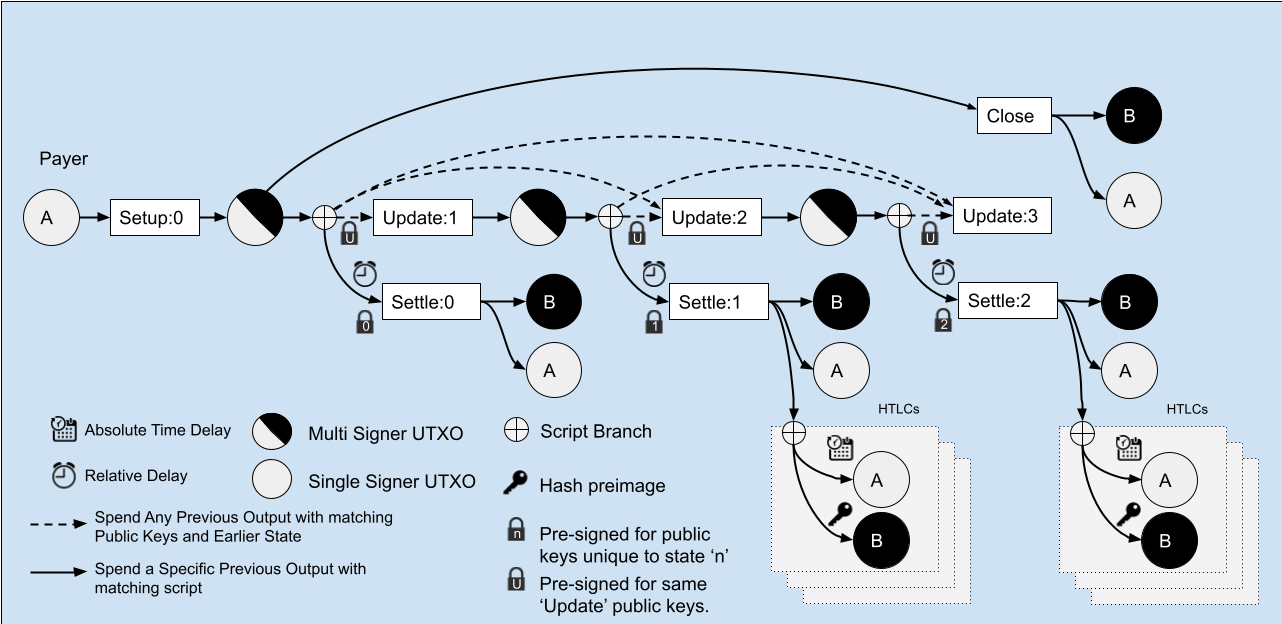
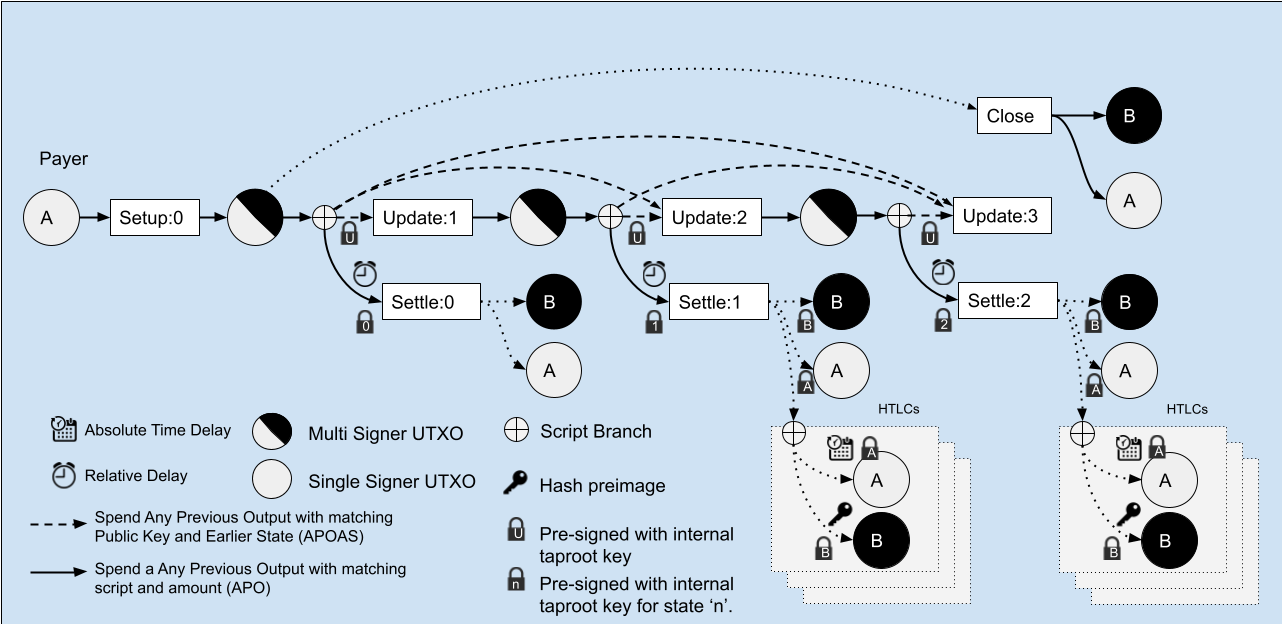
update post and diagram, ready for review

diff --git a/_posts/2021-07-26-first.md b/_posts/2021-07-26-first.md
@@ -3,31 +3,33 @@ title: "eltoo with Anyprevout and Taproot"
 subtitle: "Basic scripts and first transaction tests"
 ---
 
-# Introduction
+# Motivation
 
-With Taproot activation coming soon, now is a good time to look at [BIP-118](https://github.com/bitcoin/bips/blob/master/bip-0118.mediawiki) now known as Anyprevout and previously as Sighash_Noinput. This soft fork enables a powerful new mechanism for replacing presigned transactions in off-chain protocols. The new Lightning Network state update protocol [eltoo](https://blockstream.com/eltoo.pdf) was designed around the existence of Anyprevout.
+With Taproot activation coming soon, now is a good time to look at [BIP-118](https://github.com/bitcoin/bips/blob/master/bip-0118.mediawiki) now known as Sighash Anyprevout and previously as Sighash Noinput. This soft fork enables a powerful new mechanism for replacing presigned transactions in off-chain protocols. The new Lightning Network state update protocol [Eltoo](https://blockstream.com/eltoo.pdf), for example, was designed around the existence of this transaction replacement mechanism.
 
-In this blog post I will describe how to use the Bitcoin Core functional test framework to demonstrate a set of transactions needed for a simple implementation of the eltoo protocol. These tests use a fork of Bitcoin with an initial implementation of BIP-118 and Taproot. I also summarize the basic motivations and relevant features of Anyprevout, eltoo and Taproot to give context for understanding these test transactions.
+In this blog post I will describe how to use the Bitcoin Core [functional test framework](http://diyhpl.us/wiki/transcripts/scalingbitcoin/tel-aviv-2019/edgedevplusplus/bitcoin-core-functional-test-framework/) to test a set of Bitcoin Taproot transactions required by the eltoo protocol. These tests use a fork of Bitcoin with an initial implementation of BIP-118 that builds on Taproot. In the [Addendum](#addendum) I also summarize the relevant motivations and features of Anyprevout, eltoo and Taproot to give context for understanding these eltoo transactions, as well as the detailed Bitcoin scripts and transactions themselves.
 
-The target audience for this write-up is anyone who wants to understand BIP-118, eltoo and Taproot better at the transaction and script level. You should also be able to build Bitcoin Core from source and understand Python scripts. Following the steps below you will be able to see eltoo transactions confirmed on a local regtest network and increaes your knowledge of how both eltoo, BIP-118 and Taproot work. My hope is that this will help more people understand how these technologies work and be capable of reviewing BIP-118. More people testing BIP-118 and implementing eltoo will help find problems and improvements for both. More review and testing is critical before BIP-118 can be adopted by the Bitcoin network and eltoo by the Lightning network.
+The target audience for this write-up is anyone who wants to understand BIP-118, eltoo and Taproot better at the transaction and script level. You should be able to build Bitcoin Core from source and understand Python scripts. Following the steps below you will be able to see eltoo transactions confirmed on a local regtest network. My hope is that this will help people understand how these technologies work and give context for reviewing BIP-118. More people understanding and creating transaction tests for BIP-118 and eltoo will help find problems and improvements for both. More review and testing is critical before BIP-118 can be adopted by the Bitcoin network and eltoo by the Lightning network.
 
 # Tests
 
-I recommend that you confirm your system is setup to build Bitcoin Core and run functional tests. [Jon Atack](https://twitter.com/jonatack) has a good summary [here](https://jonatack.github.io/articles/how-to-compile-bitcoin-core-and-run-the-tests).
+I recommend that you confirm your system is setup to build Bitcoin Core and run functional tests. If you have never done this before, then [Jon Atack](https://twitter.com/jonatack) has a good summary of [how to compile bitcoin core and run the tests](https://jonatack.github.io/articles/how-to-compile-bitcoin-core-and-run-the-tests). Confirm your ability to run the functional tests (Step 8. in Jon's summary) before preceding.
 
-Once you have confirmed your ability to run the functional tests (Step 8. in Jon's summary), you can follow the steps again, but instead of cloning from the Bitcoin Core repository, clone my fork and the eltoo-anyprevout branch:
+You can now follow the steps again, but from my fork of the Bitcoin Core repository and using the ```eltoo-anyprevout``` branch:
 
 ```
-clone --single-branch --branch eltoo-anyprevout https://github.com/remyers/bitcoin.git
+git clone --single-branch --branch eltoo-anyprevout https://github.com/remyers/bitcoin.git bitcoin-eltoo-anyprevout
+cd bitcoin-eltoo-anyprevout
+git checkout eltoo-anyprevout
 ```
 
-Now you can run the new eltoo functional tests:
+Now run the new eltoo functional tests via the python script:
 
 ```
 test/functional/simulate-eltoo.py
 ```
 
-The resulting output should should that all tests passed:
+The resulting output should end by showing that all tests passed:
 
 ```
 Success!
@@ -38,38 +40,83 @@ Success!
 
 ## Tests Explained
 
-### Taproot
+### Taproot tests
 
-The file /test/functional/simulate-eltoo.py runs two tests. The first is [test_bitcoinops_workshop_tapscript](https://github.com/remyers/bitcoin/blob/37a7490dc3b2128c0f7e34a463531f1123682d42/test/functional/simulate_eltoo.py#L1526) which goes through a short Taproot test based on the [Schnorr Taproot Tutorial](https://bitcoinops.org/en/schorr-taproot-workshop/#taproot) created by [Bitcoin Optech](https://bitcoinops.org/). I highly recommend these tutorials, but note that some changes in the Taproot BIP occurred after the workshop - specifically the change to "x only" public keys. You can also check out their recent [Preparing for Taproot](https://bitcoinops.org/en/preparing-for-taproot/) series.
+The file ```/test/functional/simulate-eltoo.py``` runs two tests. The first is [test_bitcoinops_workshop_tapscript](https://github.com/remyers/bitcoin/blob/37a7490dc3b2128c0f7e34a463531f1123682d42/test/functional/simulate_eltoo.py#L1526) which goes through a short Taproot test based on the [Schnorr Taproot Workshop](https://bitcoinops.org/en/schorr-taproot-workshop/#taproot) created by [Bitcoin Optech](https://bitcoinops.org/). I highly recommend these tutorials, but note that some changes in the Taproot BIP occurred after the workshop - specifically the change to "x only" public keys. You can also check out their recent [Preparing for Taproot](https://bitcoinops.org/en/preparing-for-taproot/) series.
 
-### eltoo
+### eltoo tests
 
-You should first read [BIP-118](https://github.com/bitcoin/bips/blob/master/bip-0118.mediawiki) specificaton and the [eltoo](https://blockstream.com/eltoo.pdf) paper to understand these tests. The [Anyprevout][], [eltoo][] and [Taproot][] sections below also summarize details relevant to understanding these eltoo transaction tests.
+You should read both the [BIP-118](https://github.com/bitcoin/bips/blob/master/bip-0118.mediawiki) specificaton and the [eltoo](https://blockstream.com/eltoo.pdf) paper to understand these tests at a high level. The [Anyprevout](#apo), [eltoo](#l2) and [Taproot](#tr) sections below also summarize details relevant to understanding these eltoo transaction tests.
 
 The second test, [test_tapscript_eltoo](https://github.com/remyers/bitcoin/blob/37a7490dc3b2128c0f7e34a463531f1123682d42/test/functional/simulate_eltoo.py#L1623) performs the following tests after initializing some addresses, generating some coinbase outputs on the regtest network and funding the first eltoo state output.
 
-All of the transactions before the [divider line](https://github.com/remyers/bitcoin/blob/37a7490dc3b2128c0f7e34a463531f1123682d42/test/functional/simulate_eltoo.py#L1694) are presigned transactions that in eltoo would occur without being immediately confirmed. Note that I am using a normal Schnorr key and not a 2 of 2 Multisig created with something like MuSig for these tests; except for how the public key and signatures are generated there should be no functional difference.
+All of the other transactions before the [divider line](https://github.com/remyers/bitcoin/blob/37a7490dc3b2128c0f7e34a463531f1123682d42/test/functional/simulate_eltoo.py#L1694) are presigned transactions that in eltoo would occur without being immediately confirmed. Note that these tests use a normal Schnorr key and **not** a 2 of 2 multisig key created with something like [MuSig2](https://medium.com/blockstream/musig2-simple-two-round-schnorr-multisignatures-bf9582e99295) for the internal Taproot key called ```pubkey_AB```; except for how the public key and signatures are generated there should be no functional difference in how it is used in the test scripts.
 
-The next section uses the function ```test_transaction``` to test if a transaction is valid **without*** actually submitting it to the mempool. The first test checks if the ```update1_tx``` transaction is valid. We also test that ```settle1_tx``` signed with APO can not be rebound to ```update0_tx``` but that it can be if incorrectly signed with APOAS. The script then commits the ```update1_tx``` and generates CSV_DELAY number of blocks so that ```settle1_tx``` will be valid.
+The next section uses the function ```test_transaction``` to test if a transaction is valid **without** actually submitting it to the mempool. The first test checks if the ```update1_tx``` transaction is valid. We also confirm that ```settle1_tx``` when signed with APO can not be rebound to ```update0_tx``` but that it can be rebound to a different state if incorrectly signed with APOAS. Because APOAS does not commit to the exact script of the output this would allow any of the presigned Settle transactions to be bound to any of the Update transactions. The script then commits ```update1_tx``` into a block and generates ```CSV_DELAY``` number of blocks so that ```settle1_tx``` will be valid.
 
-The next section starts by modifying ```settle1_tx``` and ```update2_tx``` to rebind them to the ```update1_tx``` that has now been confirmed on the blockchain. Because these transactions were signed with the APOAS sighash they do not commit to the transaction ID of a specific transaction. After these transactions are tested with ```test_transaction``` the script commits to one of them, the ```update2_tx``` to advance the channel to state 2.
+The next section starts by modifying ```settle1_tx``` and ```update2_tx``` to rebind them to the specific ```update1_tx``` transaction that has now been confirmed on the blockchain. Because these transactions were signed with the APOAS and APO sighashes they do not commit to the transaction ID of a specific transaction. After these transactions are tested with ```test_transaction```, the script commits to ```update2_tx``` to advance the channel to state 2.
 
-We then create the ```update1b_tx``` transaction which attempts to spend the ```update2_tx``` output back to channel state 1. This transaction uses the same pregenerated signature used by ```update_1``` but rebinds it to ```update2_tx``` instead of ```update0_tx```. When ```update1b_tx``` is tested, it fails with the error message, ```'non-mandatory-script-verify-flag (Locktime requirement not satisfied)'``` because the signature commits to a locktime less than the locktime encoded in the spending script of ```update2_tx``` and so the script fails.
+We then create the ```update1b_tx``` transaction which attempts to spend the ```update2_tx``` output back to channel state 1. This transaction uses the same pregenerated signature used by ```update_1``` but rebinds it to ```update2_tx``` instead of ```update0_tx```. When ```update1b_tx``` is tested, it fails with the error message, ```'non-mandatory-script-verify-flag (Locktime requirement not satisfied)'``` because the signature commits to a transaction with a locktime of 1, which is less than the locktime encoded in the spending script of ```update2_tx``` and so the script fails.
 
-The next lines successfully commit to ```settle2_tx``` which exclusively spends from ```update_2``` because it uses the APO and not APOAS sighash. The final tests demonstrate how to spend the HTLCs using either the timeout via ```htlc_refund_tx``` or the hash preimage via ```htlc_claim_tx```. 
+The next lines successfully commit to ```settle2_tx``` which can spend only from ```update_2``` because it uses the APO and not APOAS sighash. Either the APO or APOAS sighash must be used because although the ```update_2``` script and amount are known, the exact transaction id is not known in advance and can change based on if ```update_2``` is bound to ```update_0``` or ```update_1```. The final tests demonstrate how to spend the HTLCs using either a timeout via ```htlc_refund_tx``` or a hash preimage via ```htlc_claim_tx```. 
 
-Note that because the HTLC refund and claim transactions are only signed by the channel partner collecting the HTLC, they are not presigned and can include an additional fee input and change output. They also do not need to use an Anyprevout sighash. The Update transactions have a single input and output, so by using SIGHASH_SINGLE along with APOAS a transaction fee input and change output can be added before commiting the transaction to the blockchain. Only the Settle transactions need to allocate part of the channel balance as transaction fees.
+Note that because the HTLC refund and claim transactions are only signed by the channel partner collecting the HTLC, they do not need to be presigned and can include an additional fee input and change output. They also do not need to use an Anyprevout sighash. The Update transactions have a single input and output, so by using SIGHASH_SINGLE along with APOAS a transaction fee input and change output can be added before commiting the transaction to the blockchain. Only the Settle transactions need to allocate part of the channel balance as transaction fees.
 
-# Anyprevout
+### BIP-118 Unit tests
 
-BIP-118 proposes a soft fork that allows transactions to not just spend a specific previous transaction output, but instead any transactions output that uses the same signing key, in the case of SIGHASH_ANYPREVOUTANYSCRIPT, or that spends the same amount and uses the exact same script in the case of SIGHASH_ANYPREVOUT. Use of these two sighashes are enabled only for taproot script path spends of taproot transactions that reference a public key prepended with a [new public key type](https://github.com/bitcoin/bips/blob/master/bip-0342.mediawiki#cite_note-6). Some key features of BIP-118 are summarized below.
+In addition to high level functional tests for eltoo, there are also low-level tests added to ```src/tests/sighash_tests.cpp``` to exercise the new BIP-118 sighashes. They are implemented by the tests [sighash_anyprevout_legacy](https://github.com/remyers/bitcoin/blob/5c1b157c2fd646305757e44cb6daea6b79bca75c/src/test/sighash_tests.cpp#L248) and [sighash_anyprevout_taproot](https://github.com/remyers/bitcoin/blob/5c1b157c2fd646305757e44cb6daea6b79bca75c/src/test/sighash_tests.cpp#L404). Review and expansion of theses tests would be very helpful.
 
-## Taproot Internal Key
+# Next Steps
 
-To spend an output using a signature signed with APO or APOAS the tapscript must include a 32-byte schnorr public key prepended with the new ANYPREVOUT public key type or alternately the single public key type byte without a schnorr public key. If only the key type byte is used, then it will be substituted with the taproot internal public key. This removes the largest piece of data from the tapscript for the most common spending condition and yields a significant transaction fee saving.
+These transaction tests are only a very first attempt at implementing eltoo so as to better understand how it works with BIP-118 and Taproot. Adding additional features will bring them closer to an actual working implementation.
 
-## Transaction Hash
-The core changes of BIP-118 are to how transaction hashes are generated in the SignatureHashSchnorr method of bitcoin/src/interpreter.cpp . This table summarizes which fields are hashed differently for the two new sighashes:
+## PTLCs
+
+Tapscript uses Schnorr signatures which allow us to replace [Hash Time Locked Contracts](https://bitcoinops.org/en/topics/htlc/) with [Point Time Lock Contracts](https://bitcoinops.org/en/topics/ptlc/) via adapter signatures. This will require modifying our ```htlc_claim_tx``` transaction to take a modified signature only and not a preimage. 
+
+PTLCs have three main advantages: they enhance privacy by removing the common preimage hash from transactions, transactions get smaller which saves on transaction fees and it also enables and they also allow for "[stuckless payments](https://suredbits.com/payment-points-part-2-stuckless-payments/)" as well as other more advanced features like escrowed payments.
+
+## Layered Commitments
+
+AJ Towns has proposed a modification of the eltoo protocol called [Layered Commitments](https://lists.linuxfoundation.org/pipermail/lightning-dev/2020-January/002448.html) as a way to reduce the [CLTV expiry delta](https://github.com/lightningnetwork/lightning-rfc/blob/master/02-peer-protocol.md#cltv_expiry_delta-selection) of eltoo which currently must include the CSV expiry time of its Update transaction which occurs before the Settle transaction becomes valid. Layered Commitments offer a way for each HTLC (or PTLC) to commit to either the Claim or Refund path before the CSV expiry time has expired and thus remove it from the CLTV expiry delta.
+
+## Channel Factories
+
+A key feature of eltoo is the ability to support multiparty channels known as [Channel Factories](https://bitcoinops.org/en/topics/channel-factories/), originally described by Burchert, Decker and Wattenhofer in [Scalable funding of Bitcoin micropayment channel networks](https://www.ncbi.nlm.nih.gov/pmc/articles/PMC6124062/). The current Poon-Dryja Lightning update scheme requires each channel partner to hold a different transaction, but using eltoo allows all channel partners hold the same set of transactions for each update. This works because in eltoo newer state updates can spend from older ones, but Poon-Dryja channel updates assign a penalty to one side or the other if an old update is used. Assigning a penalty to enforce increasing state updates is difficult if you have more than two parties in each channel.
+
+Extending these tests to explore channels with multiple parties will help confirm implementation details of this channel type and help to identify any problems or possible optimizations needed to make Channel Factories practical.
+
+## Musig
+
+To refine message passing in our future eltoo simulation we should replace the single party Taproot internal key used by our eltoo transactions with a 2 of 2 multisignature Schnorr key using something like the [MuSig2](https://medium.com/blockstream/musig2-simple-two-round-schnorr-multisignatures-bf9582e99295) protocol. This will also include exploring how the PTLC signing protocol can be combined with the Schnorr multisignature protocol. This step should also include a thorough examination of how to use a multisignature signing protocol with the least communication overhead while preserving its safety.
+
+## Simulation
+
+Once we have finalized the eltoo transactions we can update the simulation code originally developed for the segwit (SIGHASH_NOINPUT) version of eltoo. A higher level simulation will help when creating more complicated tests and evolve to include mock message passing and other logic to more closely emulate the full Lightning protocol.
+
+# Challenges
+
+There are currently two main challenges identified for an eltoo implementation using BIP-118. The first is how to avoid long CLTV expiry delta values; it is hoped that the Layered Commitments scheme points the way to a solution. A potential downside of Layered Commitments though is that it removes the ability to use SIGHASH_SINGLE to defer adding transaction fee inputs and outputs to an eltoo Update transaction until it is committed to the blockchain.
+
+The second challenge is how to generally have the ability to add transaction fee inputs and change outputs to eltoo transactions when they are commited to the blockchain instead of negotiating these values in advance to be paid from the channel balance. Current methods like RBF and CPFP could possibly help. Another suggested mechanism would be to replace SIGHASH_SINGLE with a mechanism to commit to a subset of outputs. Some ideas around this have recently been discussed in the "[A Stroll through Fee-Bumping Techniques : Input-Based vs Child-Pay-For-Parent](https://www.mail-archive.com/bitcoin-dev@lists.linuxfoundation.org/msg10280.html)" thread on the bitcoin-dev mailing list. In particular the SIGHASH_GROUP proposal uses the new Taproot annex to specify a range of outputs committed to by a particular input.
+
+# Summary
+
+Implementing basic tests of the transactions required to implement eltoo using BIP-118 has been helpful for understanding both the BIP-118 and eltoo proposals and for being able to give useful feedback and review. Help is needed to implement the next steps outlined above; in the process we will likely uncover new challenges in addition to those already identified so far. BIP-118 requires a relatively small amount of code changes, but unlocks a huge design space for off-chain protocols of which eltoo is just one example. More people running and extending these tests will increase the amount of feedback and review and lead to faster consensus for adopting BIP-118. 
+___
+
+# Addendum
+
+## <a name="apo"></a>Anyprevout
+
+BIP-118 proposes a soft fork that allows transactions to not just spend a specific previous transaction output, but instead any transactions output that uses the same signing key, in the case of SIGHASH_ANYPREVOUTANYSCRIPT (APOAS), or that spends an output with a specific amount and script in the case of SIGHASH_ANYPREVOUT (APO). Use of these two sighashes are enabled only for taproot script path spends of taproot transactions that reference a public key prepended with a [new public key type](https://github.com/bitcoin/bips/blob/master/bip-0342.mediawiki#cite_note-6). Some key features of BIP-118 are summarized below.
+
+### Taproot Key Type
+
+To spend an output using a signature signed with APO or APOAS the tapscript must include a 32-byte schnorr public key prepended with the new ANYPREVOUT key type or alternately the single Anyprevout key type byte without a following 32 byte schnorr public key. If only the key type byte is used, then it will be substituted with the taproot internal public key. This removes the largest piece of data from the tapscript for the most common spending condition and yields a significant transaction fee saving. The example eltoo transactions below make use of this feature.
+
+### Transaction Hash
+The core changes of BIP-118 are to how transaction hashes are generated in the [SignatureHashSchnorr]((https://github.com/remyers/bitcoin/blob/15a9df070615e7e8f29c17a92b889f19218f25ac/src/script/interpreter.cpp#L1492)) method of ```bitcoin/src/interpreter.cpp``` . This table summarizes which fields are hashed differently for the two new sighashes:
 
 | | SIGHASH_ANYPREVOUT (APO) | SIGHASH_ANYPREVOUTANYSCRIPT (APOAS) |
 | --- |:---:|:---:|
@@ -80,29 +127,29 @@ The core changes of BIP-118 are to how transaction hashes are generated in the S
 | Tapleaf Hash | Included | `Excluded` |
 * see also the [sighash spreadsheet](https://lists.linuxfoundation.org/pipermail/bitcoin-dev/2021-July/019257.html) made by Jeremy Rubin.
 
-### Sighash Anyonecanpay
+#### Sighash Anyonecanpay
 
-If either sighash APO or APOAS are used, then the signature behaves as if SIGHASH_ANYONECANPAY was used because additional inputs can be added to the transaction without invalidating the signature used for the input signed with these new sighashes.
+If either sighash APO or APOAS are used, then the signature behaves as if [SIGHASH_ANYONECANPAY](https://en.bitcoin.it/wiki/OP_CHECKSIG#Procedure_for_Hashtype_SIGHASH_ANYONECANPAY) is used and allows additional inputs to be added to the transaction without invalidating the signature used for the input signed with these new sighashes. This feature is used by the eltoo transactions to add an additional input for transaction fees.
 
-### Sighash Single or All
-Sighash APO or APOAS must be combined with either SIGHASH_SINGLE or ALL to indicate whether the signature commits to only a single output at the same index as the input, or all outputs in the transaction.
+#### Sighash Single or All
+Sighash APO or APOAS must be combined with either [SIGHASH_SINGLE](https://en.bitcoin.it/wiki/OP_CHECKSIG#Procedure_for_Hashtype_SIGHASH_SINGLE) or [SIGHASH_ALL](https://en.bitcoin.it/wiki/OP_CHECKSIG#Hashtype_SIGHASH_ALL_.28default.29) to indicate whether the signature commits to only a single output at the same index as the input, or all outputs in the transaction.  The eltoo [Update](#) transaction is signed with both SIGHASH_ANYPREVOUT and SIGHASH_SINGLE which allows for the addition of both an additional input and change output.
 
-### Prevout
+#### Prevout
 Both APO and APOAS ignore the prevout field of the output being spent. This enables the creation of pre-signed transactions that do not spend only a specific transaction that has already been confirmed on the blockchain.
 
-### Amount
-A transaction signed with APO, but not APOAS, commits to the specific amount of the output being spent. This creates a way to restrict which outputs can be spent from when the APO sighash is used. An input signed with APOAS has more flexibility to allow protocols that “consolidate a group of UTXOs with the same spending condition into a single UTXO” (see [BIP-118 ref 3](https://github.com/bitcoin/bips/blob/master/bip-0118.mediawiki#cite_note-3) and also enables the [Layered Commitments](https://lists.linuxfoundation.org/pipermail/lightning-dev/2020-January/002448.html) protocol.
+#### Amount
+A transaction signed with APO, but not APOAS, commits to the specific amount of the output being spent. This creates a way to restrict which outputs can be spent from when the APO sighash is used. An input signed with APOAS has more flexibility to allow protocols that “consolidate a group of UTXOs with the same spending condition into a single UTXO” (see [BIP-118 ref 3](https://github.com/bitcoin/bips/blob/master/bip-0118.mediawiki#cite_note-3)) and it also enables the [Layered Commitments](https://lists.linuxfoundation.org/pipermail/lightning-dev/2020-January/002448.html) protocol.
 
-### ScriptPubkey
+#### ScriptPubkey
 Only an input signed with APO commits to the exact script of the output being spent. An input signed with APOAS can spend any input that has matching spending conditions, even if the hash of the exact script is not the same. For example, the script for an [eltoo state update](https://github.com/remyers/bitcoin/blob/37a7490dc3b2128c0f7e34a463531f1123682d42/test/functional/eltoo_scripts.py#L43) transaction includes the number of the state. This means that the hash of the script will be different for each state. Spending conditions, such as the key used to sign, can be used to constrain which output can be spent when APOAS is used to create the signature.
 
-### Sequence
+#### Sequence
 Both APO and APOAS commit to the sequence number of the specific input being spent. This allows a way to restrict which transactions can be spent when these sighashes are used.
 
-### Tapleaf Hash
+#### Tapleaf Hash
 APOAS does not commit to the root script of a transaction, defined by the ScriptPubkey of the output it spends, or the leaf script defined by the tapleaf hash of the spending transaction. APO does commit to a specific leaf script so must commit to a matching tapleaf hash.
 
-### Unchanged Fields
+#### Unchanged Fields
 
 These fields are committed to in the same way both with or without BIP-118: 
   * hash type: bit field used to sign,  eg. SIGHASH_ANYPREVOUT | SIGHASH_ALL
@@ -114,9 +161,9 @@ These fields are committed to in the same way both with or without BIP-118:
   * outputs hash: a hash of either all (SIGHASH_ALL) outputs in the spending transaction or just the output at the same index as the input of the spending transaction being signed (SIGHASH_SINGLE).
   * code separator position: included for all script path spends
 
-See [anyprevout.xyz](https://anyprevout.xyz/) for more discussion about the advantages and other uses of BIP-118.
+See [anyprevout.xyz](https://anyprevout.xyz/) and [Bitcoin Optech](https://bitcoinops.org/en/topics/sighash_noinput/) for more discussion about the advantages and other uses of BIP-118.
 
-# eltoo
+## <a name="l2"></a>eltoo
 
 The eltoo channel update protocol uses floating transactions that can spend from any older channel state, but not a newer one, using the anyprevout sighash. The eltoo protocol has three primary improvements over the current channel update mechanism used by Lightning: 
  1. no penalty for publishing an old channel state
@@ -127,7 +174,7 @@ It may also be possible to reduce the need to preselect transaction fees for unc
 
 I have based my tests on the taproot [eltoo sketch](https://lists.linuxfoundation.org/pipermail/lightning-dev/2019-May/001996.html) from AJ Towns, but without [chaperone signatures](https://lists.linuxfoundation.org/pipermail/lightning-dev/2019-September/002176.html) (ie. the ‘X CHECKSIGVERIFY’ in his sketch).
 
-## Overview
+### Overview
 
 The Taproot eltoo scripts and transactions are pre-signed but not broadcast to the network except in the case of a non-cooperative close of the channel. Everytime the payment channel is updated, two new transactions are generated and pre-signed by both parties: one to immediately update the state of the channel and another to settle the value after a delay that gives time for a newer state to override it. When an update transaction is confirmed by the Bitcoin network, it can be spent, and effectively replaced, by a newer update, but not an older one, within a window of time after it was broadcast. After the relative timelock of an update transaction has expired, the corresponding settlement transaction can then spend its value and create outputs for settled value spendable by each of the two parties and inflight value as HTLC outputs that can be claimed by one party if they have a hash preimage, or refunded to the other after a timeout. 
 
@@ -135,11 +182,11 @@ An update transaction uses the APOAS sighash to allow it to spend from any previ
 
 ![APO, APOAS eltoo transaction diagram](/assets/APO_APOAS_eltoo_transaction_diagram.png)
 
-## Scripts
+### Scripts
 
 Scripts for the update, settle, claim and refund transactions are described below. The update transaction is used to immediately spend an earlier update transaction with a lower state number. The settle transaction spends from a corresponding update transaction after a relative timelock has expired. A claim transaction immediately spends from the HTLC output of a specific settle transaction if presented with the correct hash preimage. A refund transaction can spend from the HTLC output of a specific settle transaction after a certain absolute clock time.
 
-### Update
+#### <a name="update_script"></a>Update
 
 The first two lines of this script check that the corresponding transaction has been signed by a Schnorr key used as the Taproot internal key. This internal key should be a 2 of 2 multisig (eg. using [MuSig2](https://medium.com/blockstream/musig2-simple-two-round-schnorr-multisignatures-bf9582e99295)) key and the signature should be generated by both channel parties. In these tests though we use a Schnorr key and signatures generated in the standard way for simplicity. OP_1 is used for a single byte anyprevout key that is replaced by the internal Taproot public key. The ctlv_start_time + state value represents the state number of the channel and is increased every time the channel is updated. As per [BIP-65](https://github.com/bitcoin/bips/blob/master/bip-0065.mediawiki), OP_CHECKLOCKTIMEVERIFY fails if the spending transaction has a nLocktime field with a value from an older state.
 
@@ -152,7 +199,7 @@ OP_CHECKLOCKTIMEVERIFY
 
 Note that OP_CHECKLOCKTIMEVERIFY leaves the state constant on the stack, but because it is the last opcode there is no need to add an OP_DROP.
 
-### Settle
+#### <a name="settle_script"></a>Settle
 
 The first two lines of this script check that the corresponding transaction has been signed by both parties in the same way as the update script. The csv_delay constant represents a relative block delay before which this transaction will not be valid. As per [BIP-112](https://github.com/bitcoin/bips/blob/master/bip-0112.mediawiki), OP_CHECKSEQUENCEVERIFY fails if the spending transaction has an nSequence field value not greater than the csv_delay and so can only be included in a block after that delay.
 
@@ -164,7 +211,7 @@ OP_CHECKSEQUENCEVERIFY
 ```
 Note that OP_CHECKSEQUENCEVERIFY leaves the delay constant on the stack, but because it is the last opcode there is no need to add an OP_DROP.
 
-### Claim
+#### <a name="claim_script"></a>Claim
 
 The input to this script is both a signature and a preimage value that when hashed matches the preimage_hash value encoded in the script. The OP_EQUALVERIFY opcode fails if they do not match. The pubkey constant is provided by the payee of the HTLC to ensure they can generate the signature to claim the HTLC output immediately if they learn the preimage by forwarding the payment successfully.
 
@@ -176,9 +223,9 @@ OP_EQUALVERIFY
 OP_CHECKSIG
 ```
 
-### Refund
+#### <a name="refund_script"></a>Refund
 
-The pubkey constant is provided by the payer of the HTLC to ensure only they can generate the signature to claim the HTLC output if the payer has not forwarded the payment successfully. The expiry constant defines the time after which the payer can reclaim the HTLC balance. The OP_CHECKLOCKTIMEVERIFY opcode fails if the nLocktime value of the spending transaction does not exceed the expiry constant. The transaction can not be mined into a block until the median time past of the last 10 blocks exceeds the nLocktime of the transaction as per BIP-65 and [BIP-113](https://github.com/bitcoin/bips/blob/master/bip-0113.mediawiki).
+The pubkey constant is provided by the payer of the HTLC to ensure only they can generate the signature to claim the HTLC output if the payee has not forwarded the payment successfully. The expiry constant defines the time after which the payer can reclaim the HTLC balance. The OP_CHECKLOCKTIMEVERIFY opcode fails if the nLocktime value of the spending transaction does not exceed the expiry constant. The transaction can not be mined into a block until the median time past of the last 10 blocks exceeds the nLocktime of the transaction as per BIP-65 and [BIP-113](https://github.com/bitcoin/bips/blob/master/bip-0113.mediawiki).
 
 ```
 <pubkey>
@@ -187,47 +234,66 @@ OP_CHECKSIGVERIFY
 OP_CHECKLOCKTIMEVERIFY
 ```
   
-## Transactions
+### Transactions
 
-### Update
+#### <a name="update_tx"></a>Update
   
-An Update transaction to a new state the transaction has the following field settings:
+An Update transaction spends an old payment state to a new state. The transaction has the following field settings:
 
   ```
   nLocktime: <cltv_start_time + state>
   nVersion = 2
   Input nSequence: 0
-  Output scriptPubkey: <state_address>
+  sighash = SINGLE | ANYPREVOUTANYSCRIPT
+  Output 0: scriptPubkey = <state_address>
   ```
 
-The nLocktime value is checked by the script and state_address is a Taproot address that encodes the Update script for a specific state and the Settle script with the constant expiry 
-delay.
+The nLocktime value is checked by the script to ensure it can only spend earlier states. The state_address is a Taproot address that encodes an Update script at the new state that can only be spent by specific Settle transaction for that state. A signature created by both channel partners in advance needs to be provided to spend an Update transaction to the output of a newer Update transaction. An Update transaction can spend any Update transaction with a lower state immediately. These transactions are signed with APOAS which allows the spending of an Update output from any transaction that is signed with the internal Taproot key for the channel and satisfies the script condition of a larger nLocktime. 
 
-Only a signature must be provided to spend an Update transaction to the output of a newer Update transaction. 
+#### <a name="settle_tx"></a>Settle
 
-### Settle
+A Settle transaction spends from a specific Update transaction with a matching scriptPubkey and amount. The transaction has the following field settings:
 
-### Claim
+```
+nLocktime: <cltv_start_time + state + 1>
+nVersion = 2
+Input nSequence: CSV_DELAY
+sighash = ALL | ANYPREVOUT
+Output 0: scriptPubkey = <settled_amount_address_A>
+Output 1: scriptPubkey = <settled_amount_address_B>
+Output 2...n: scriptPubkey = <HTLC_addresses>
+```
 
-### Refund
+The nSequence value of the field is checked by the script to ensure it can only spend from an Update output after ```CSV_DELAY``` blocks have been mined. This gives time for the other party to spend from the current Update output with an Update with a later state. This transaction is signed in advance by both parties with APO which means the Update output it spends from must have a matching scriptPubkey and amount. Because the scriptPubkey of the Update transaction is hashed from the script, and the script contains the state number, that ties a Settle transaction to a specific Update transaction. Once the Settle transaction is confirmed, then the settled amounts can be claimed immediately by each channel participant. The HTLC outputs can only be claimed by the payee (or refunded to the payer) based on the HTLC conditions.
 
-# Taproot
+#### <a name="claim_tx"></a>Claim
 
-# Challenges
+A Claim transaction spends from an HTLC output of a confirmed Settle transaction. Because it only requires one party to sign it and spends from a settled transaction we do not need to use APO or APOAS to sign it.
 
-# Future
+```
+nLocktime: 0
+nVersion = 2
+Input nSequence: DEFAULT_NSEQUENCE
+sighash = SINGLE | ANYONECANPAY
+Output 0: scriptPubkey = <settled_amount_address_payee>
+```
 
-## Simulation
+To spend an HTLC output with this transaction requires a signature from the HTLC payee and also the preimage for the HTLC. There is no time lock and this output can be spent immediately. The settled amount they control and any HTLC outputs they can collect can be combined into a single transaction with fees deducted from the output.
 
-## PTLCs
+#### <a name="refund_tx"></a>Refund
 
-## Layered Commitments
+A Refund transaction spends from an HTLC output of a confirmed Settle transaction. Because it only requires one party to sign it and spends from a settled transaction we do not need to use APO or APOAS to sign it.
 
-## Channel Factories
+```
+nLocktime: <htlc_expiry>
+nVersion = 2
+Input nSequence: DEFAULT_NSEQUENCE
+sighash = SINGLE | ANYONECANPAY
+Output 0: scriptPubkey = <settled_amount_address_payer>
+```
 
-## Musig
+To spend an HTLC output with this transaction requires a signature from the HTLC payer. The median time stamp of the last 11 blocks must also must be past ```htlc_expiry``` time. A transaction that spends the settled amount they control and any HTLC outputs they can collect can be combined into a single transaction with fees deducted from the output.
 
-## Other applications of APO
-* [Hashrate Derivatives using DLCs](https://suredbits.com/hashrate-derivatives-with-dlcs-coinbase-put-contracts/)
+## <a name="tr"></a>Taproot
 
-# Summary
+The Update and Settle tapscripts are encoded as different leaves of a taptree computed for each eltoo state. The Update tapscript is presented to spend from an eltoo transaction to a newer eltoo state transaction. The Settle tapscript is presented to spend to the corresponding settle transaction for that state. The address of each HTLC output of the settle transaction encodes a Claim and Refund script as different leaves of a taptree. Presenting the Claim script and correct preimage is required to spend the output, or presenting the Refund script after the ```htlc_expiry``` time.
